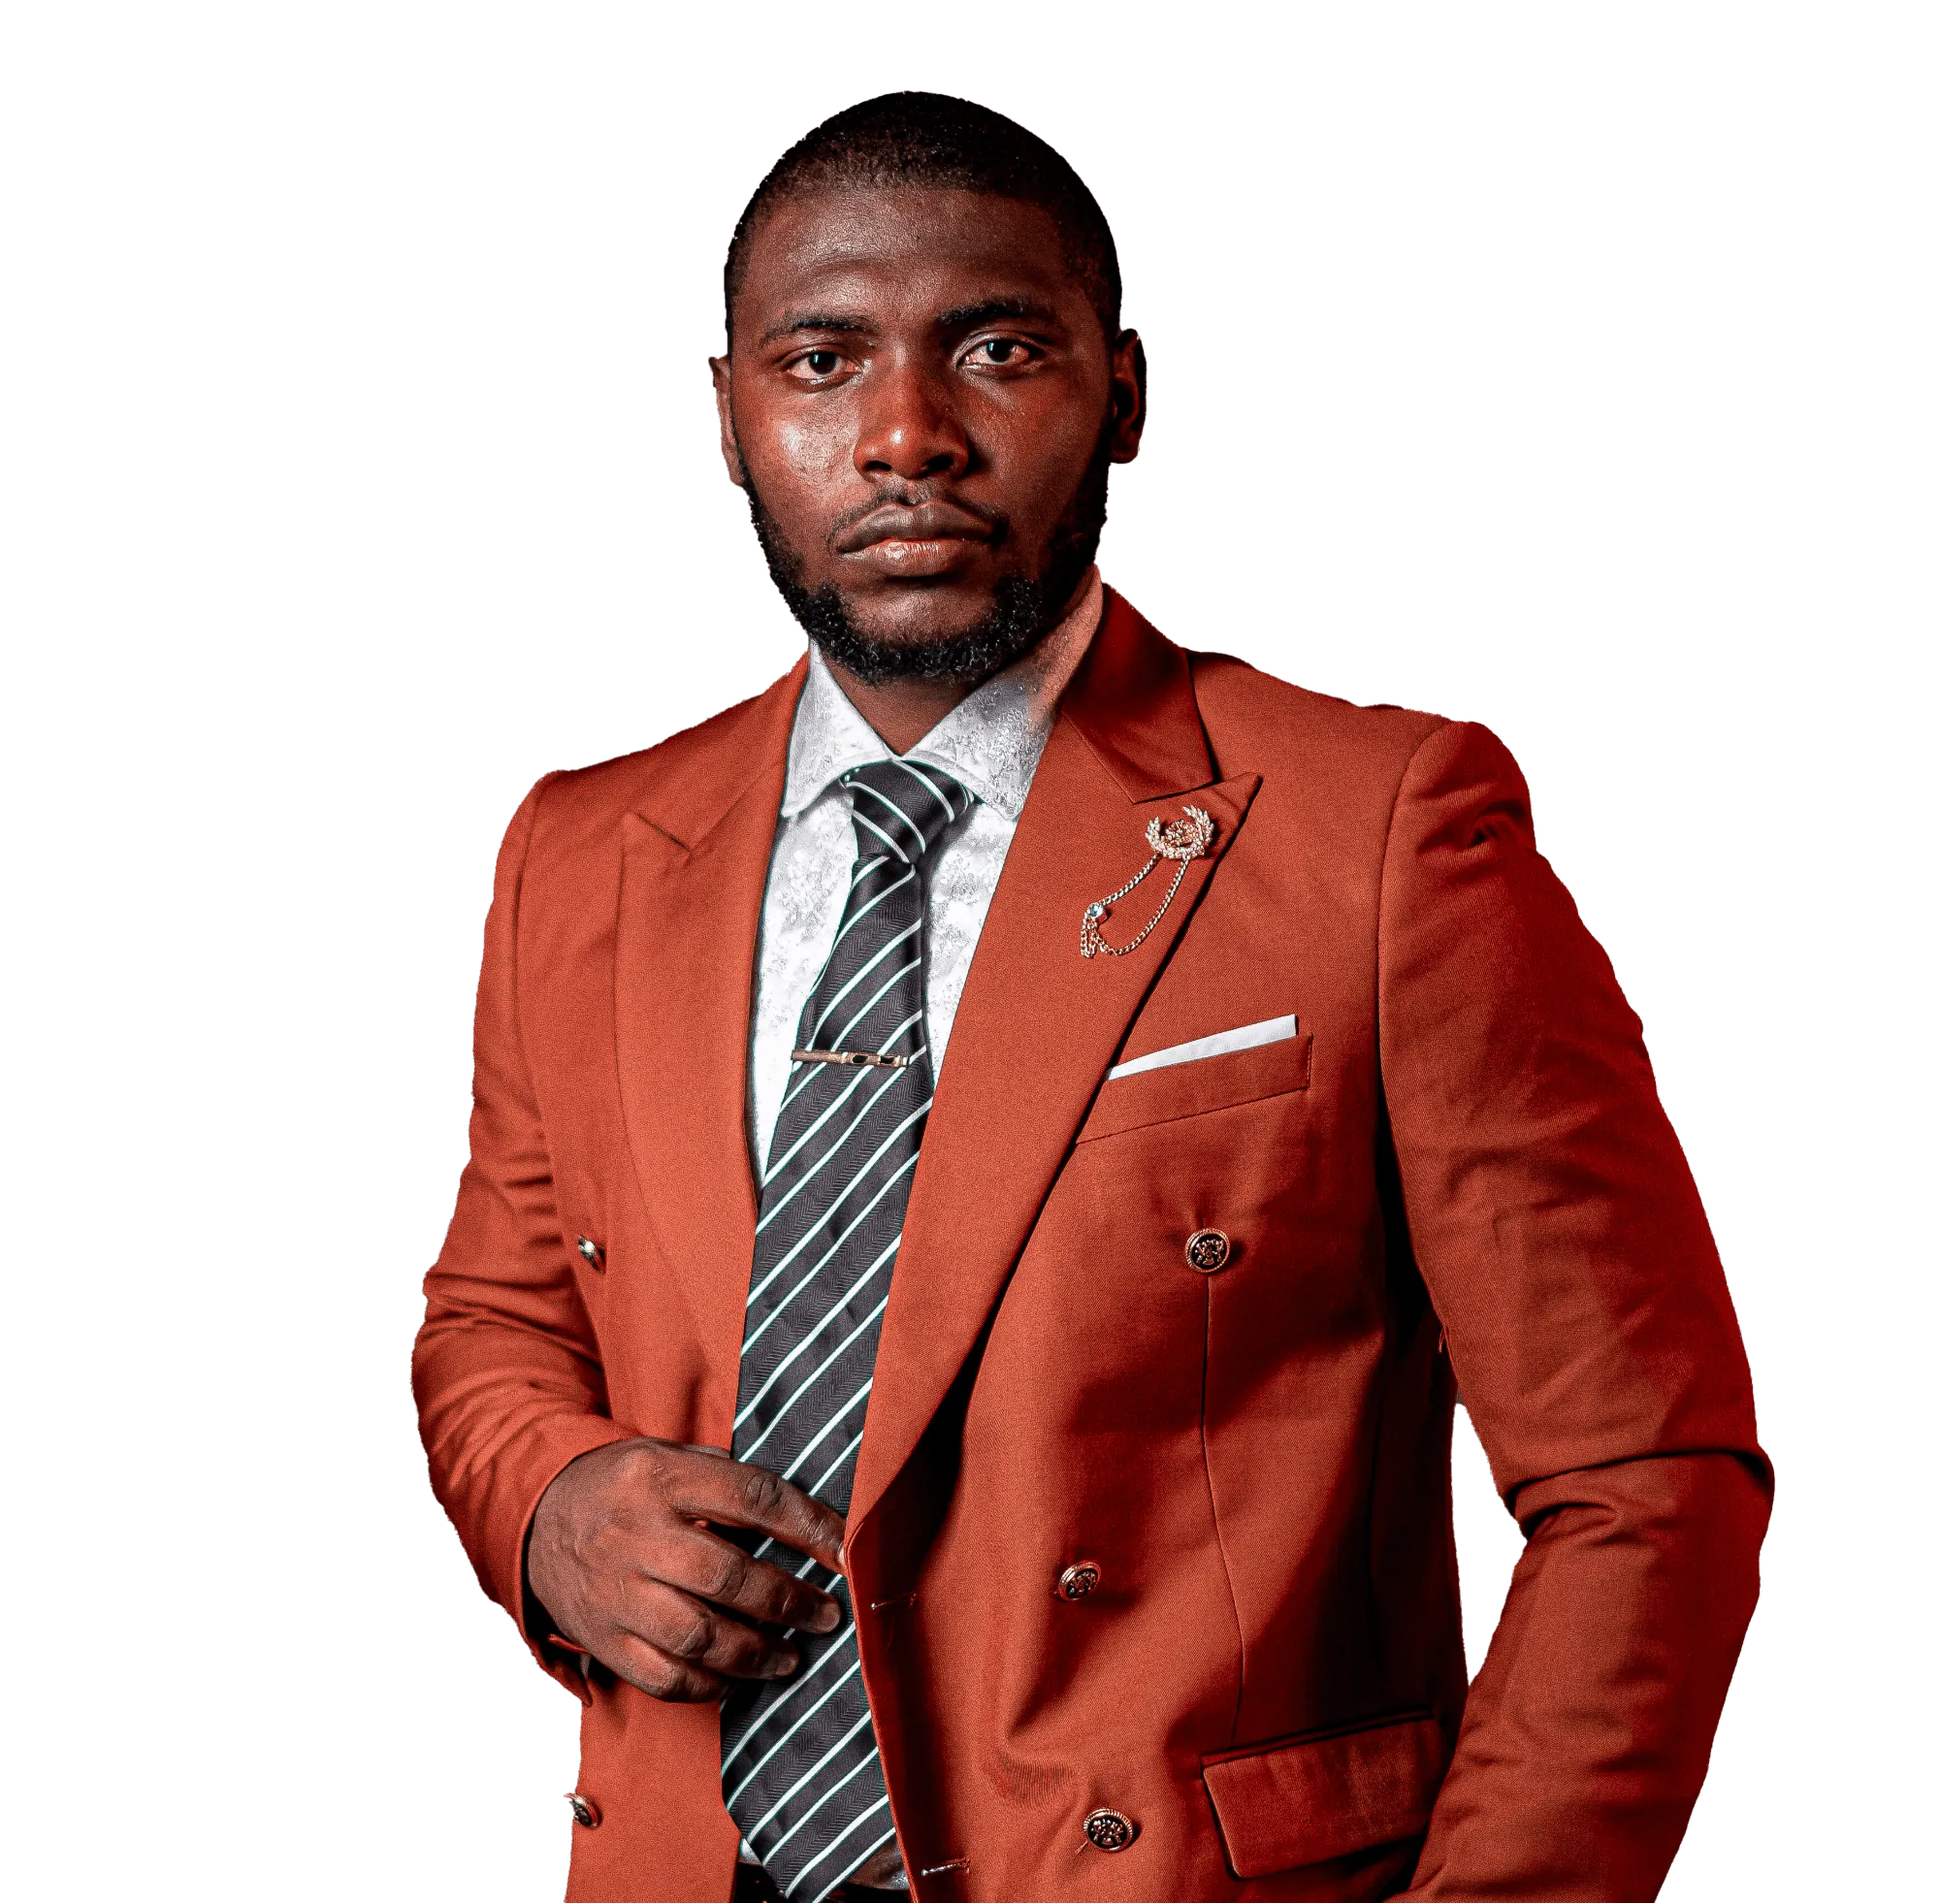
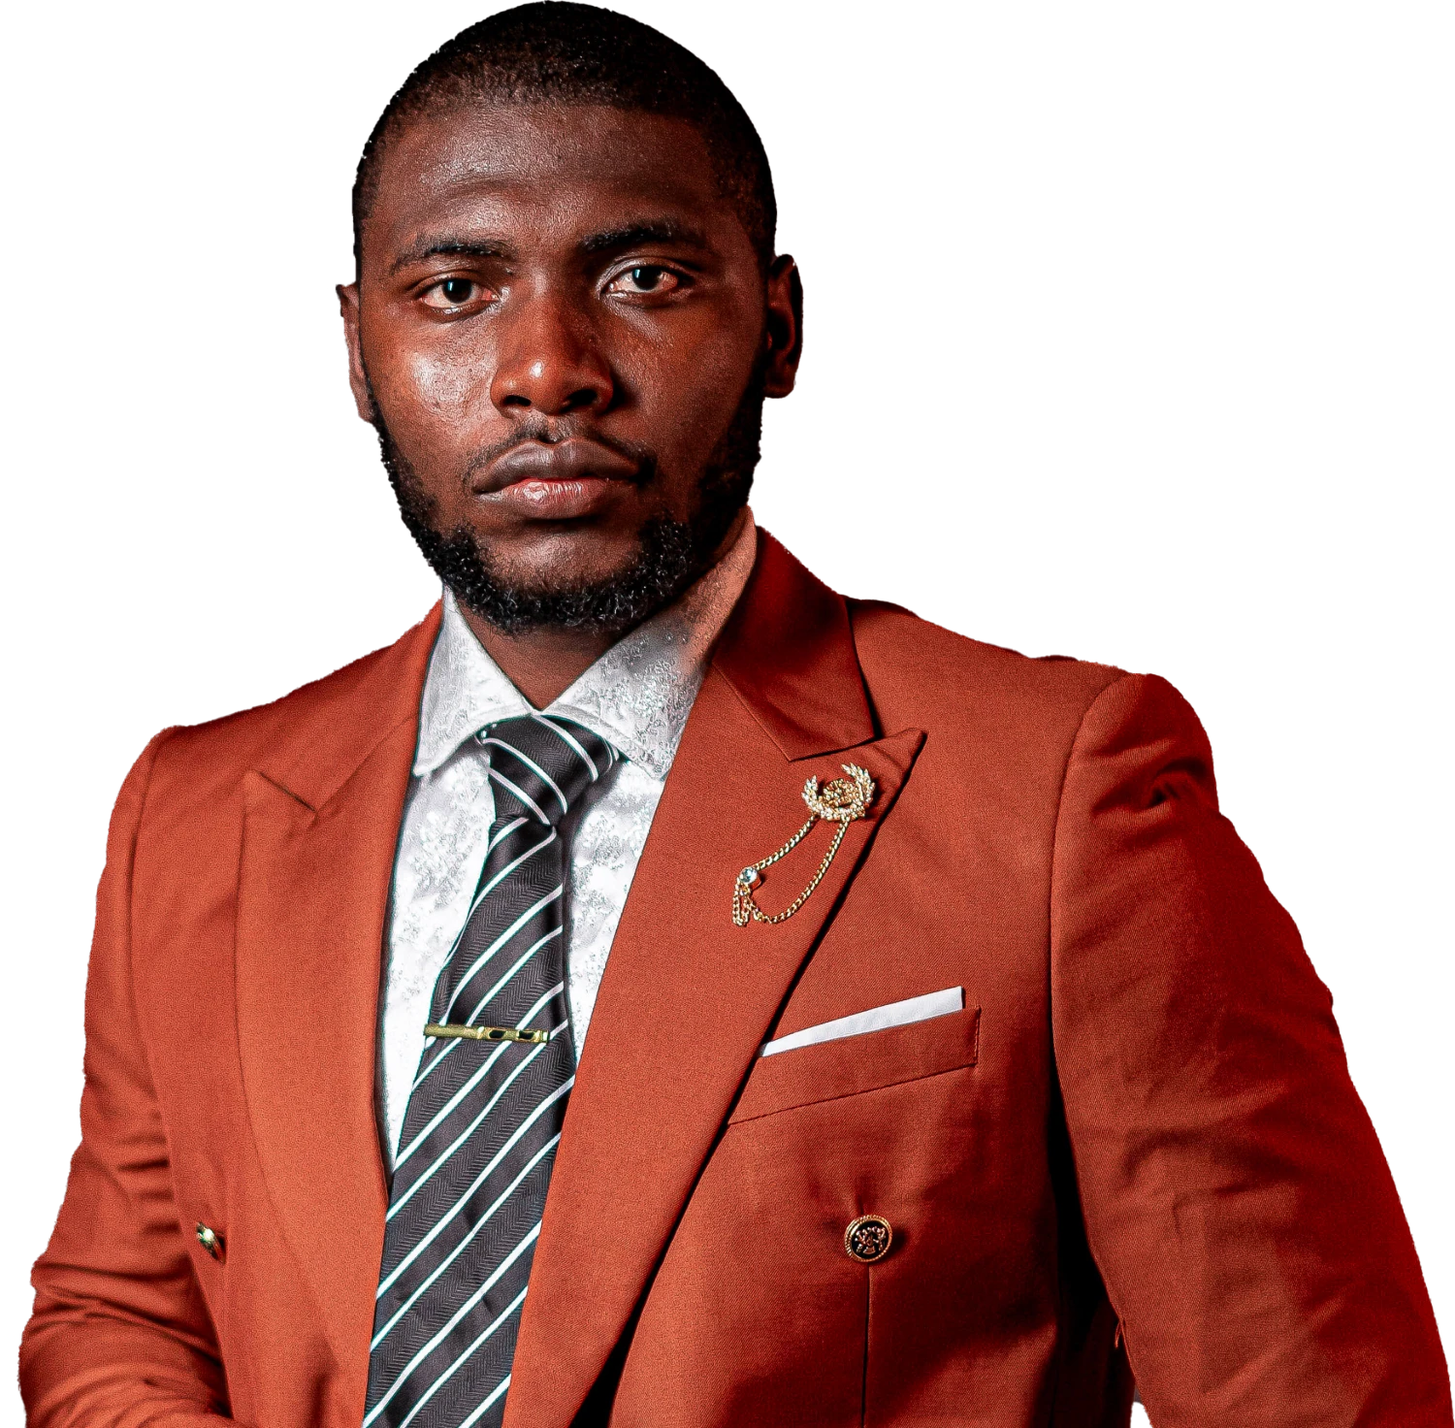
Swap hero portrait for a new photo of Reiziger Ashu
Replaces public/images/reiziger-ashu-hero-portrait.webp with a new
cutout portrait (1500x1472, RGBA, genuine alpha transparency) at the
same path, so no code change is needed elsewhere. The previous photo
is kept, not deleted, at reiziger-ashu-hero-portrait-previous.webp.

Claude-Session: https://claude.ai/code/session_01XPu1R6CYeMBmS93y4cxi78

diff --git a/CLAUDE.md b/CLAUDE.md
@@ -284,6 +284,22 @@ cutout portrait, alpha channel confirmed via `PIL` before use) — kept
 as WebP rather than flattened to JPG specifically to preserve that
 transparency.
 
+**The source photo itself was swapped once already** for a different
+portrait of Reiziger Ashu, per a direct "let's replace the image with
+this instead" request with a new photo attached — same cutout-portrait
+treatment (extracted from the conversation transcript's base64 image
+data the same way as the original, confirmed via `PIL` as 1500×1472
+RGBA with genuine alpha transparency, `(0, 255)` extrema). The new
+photo was written to the same path,
+`public/images/reiziger-ashu-hero-portrait.webp`, so **no code change
+was needed** — `page.tsx`'s `<Image src="...">` reference, `sizes`,
+`object-cover object-top`, and every layout/sizing rule documented
+below are unaffected, since none of them depend on this specific
+photo's pixels. The photo this replaced was kept (not deleted) at
+`public/images/reiziger-ashu-hero-portrait-previous.webp`, matching
+the site's convention elsewhere of retaining superseded image assets
+rather than removing them.
+
 **Two follow-up requests changed the image wrapper and grid split from
 the initial swap-in, both since reverted/adjusted from what's described
 above:**
